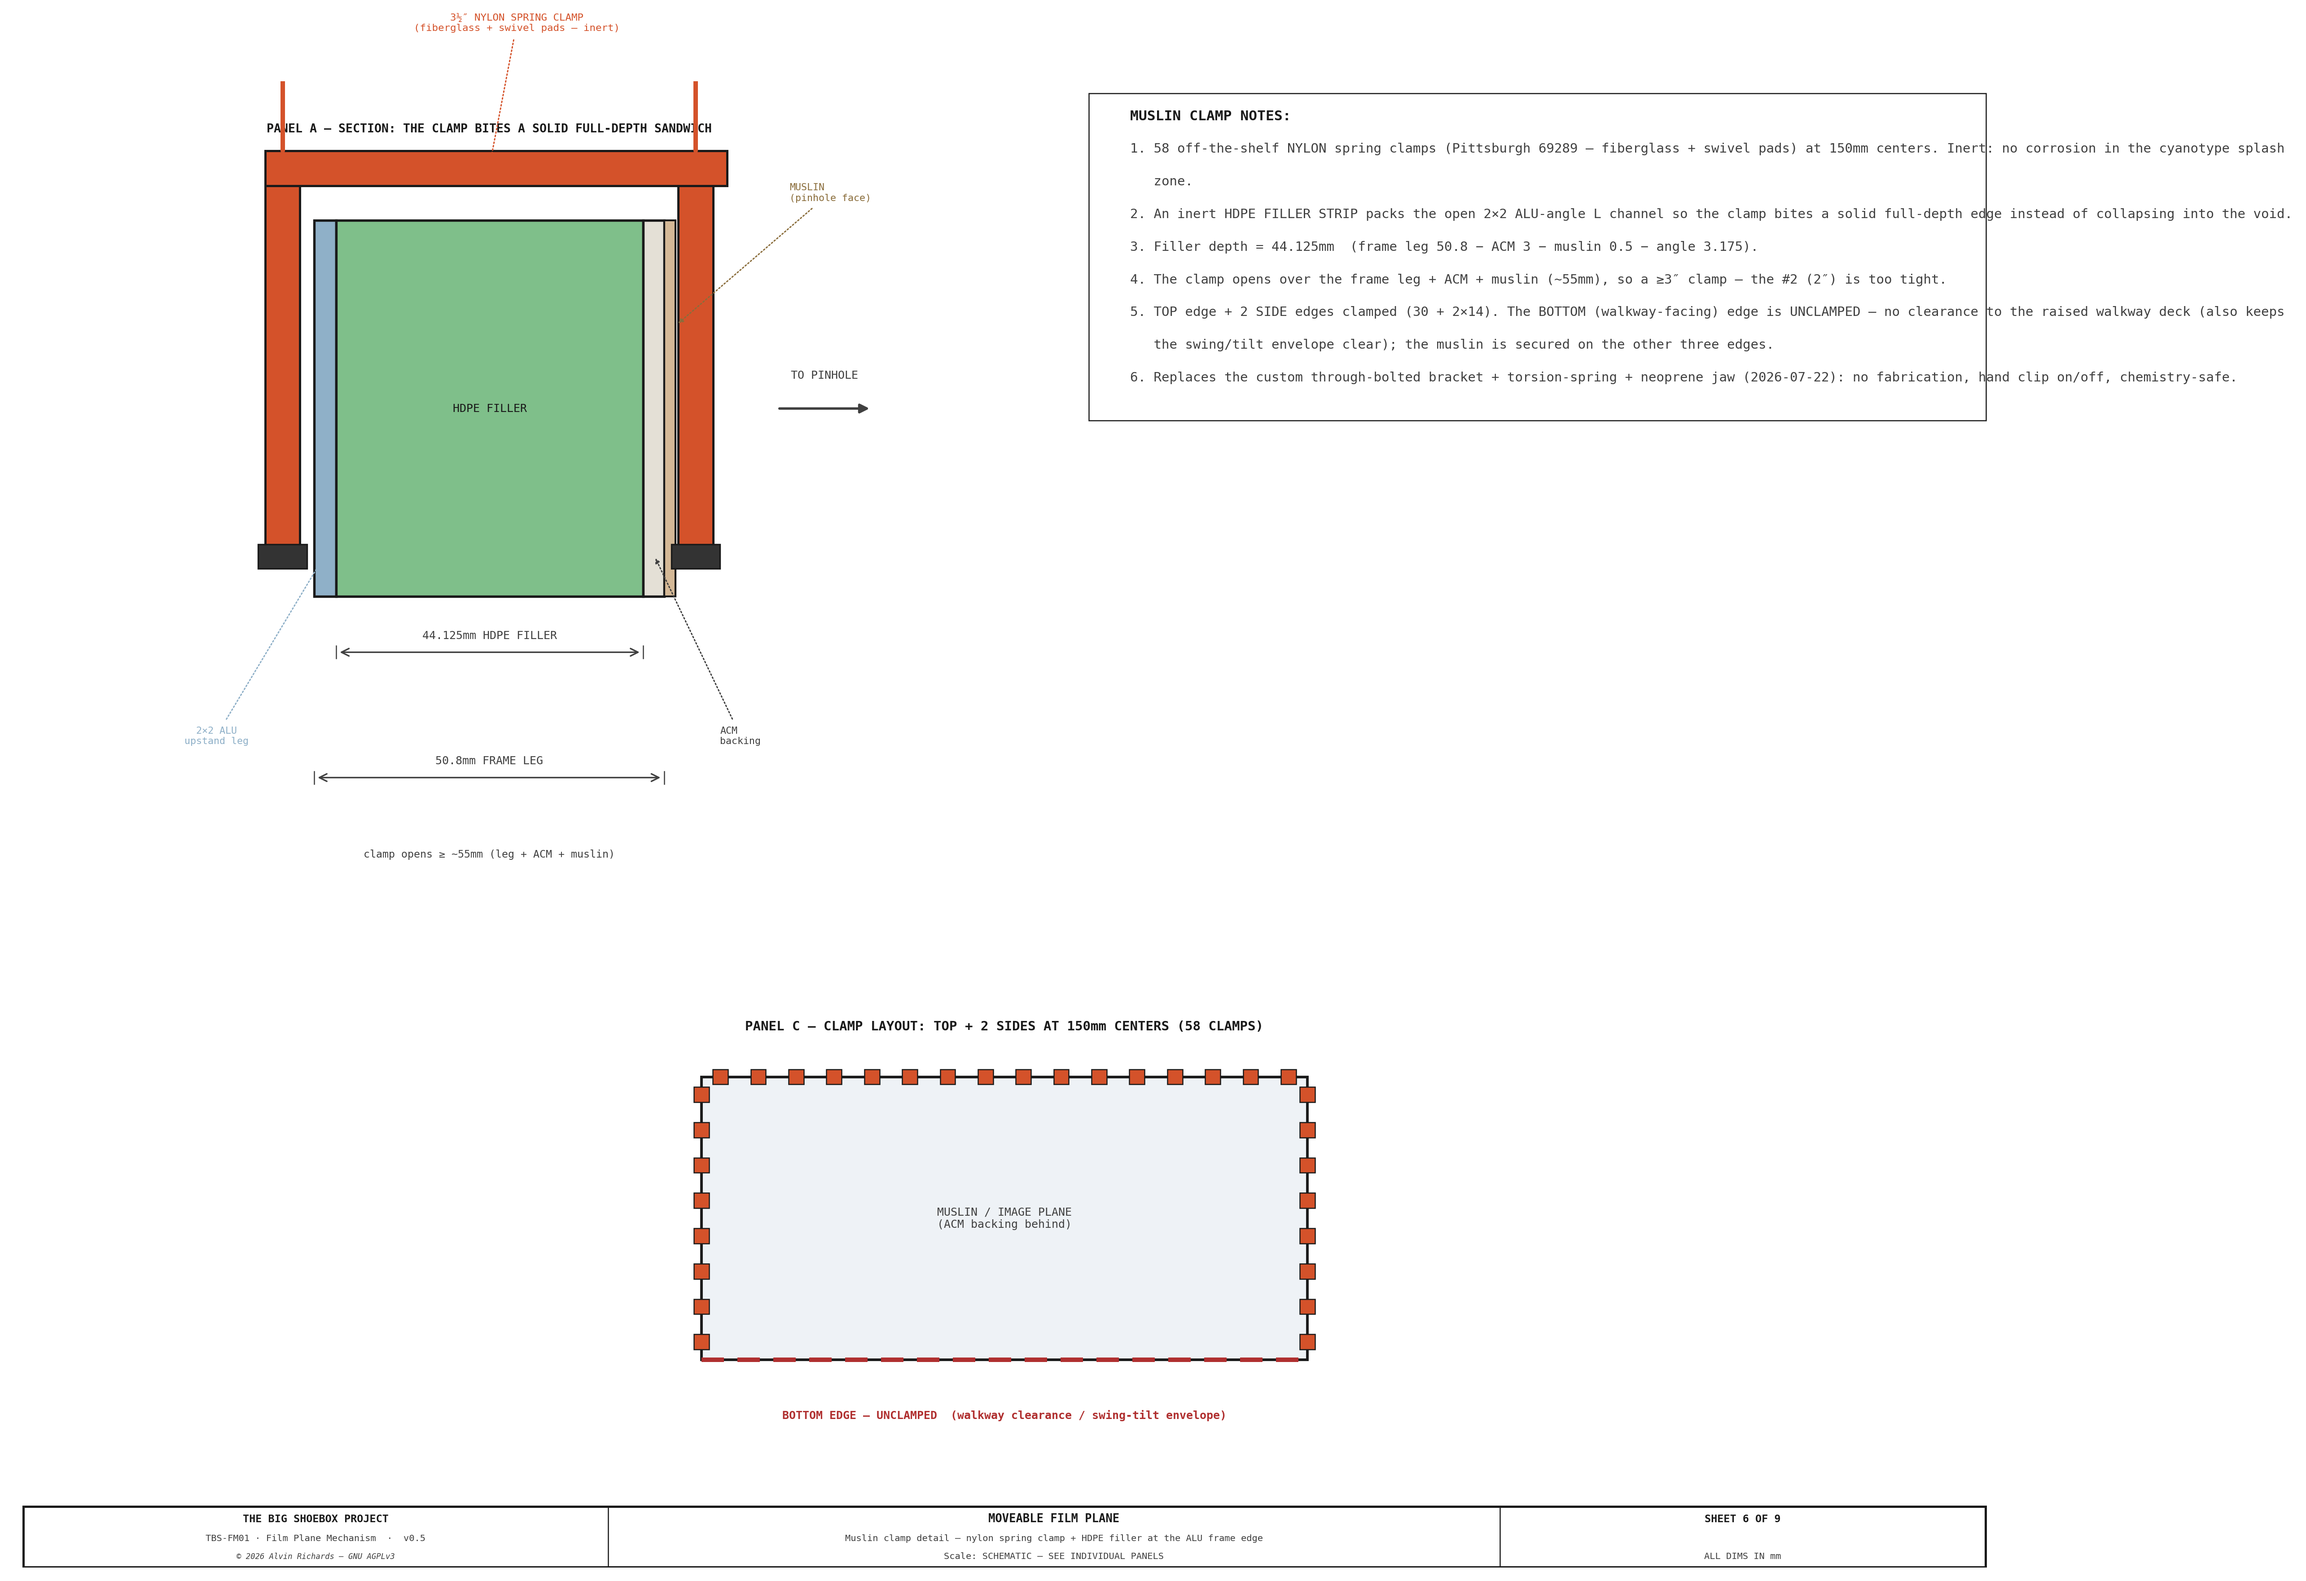
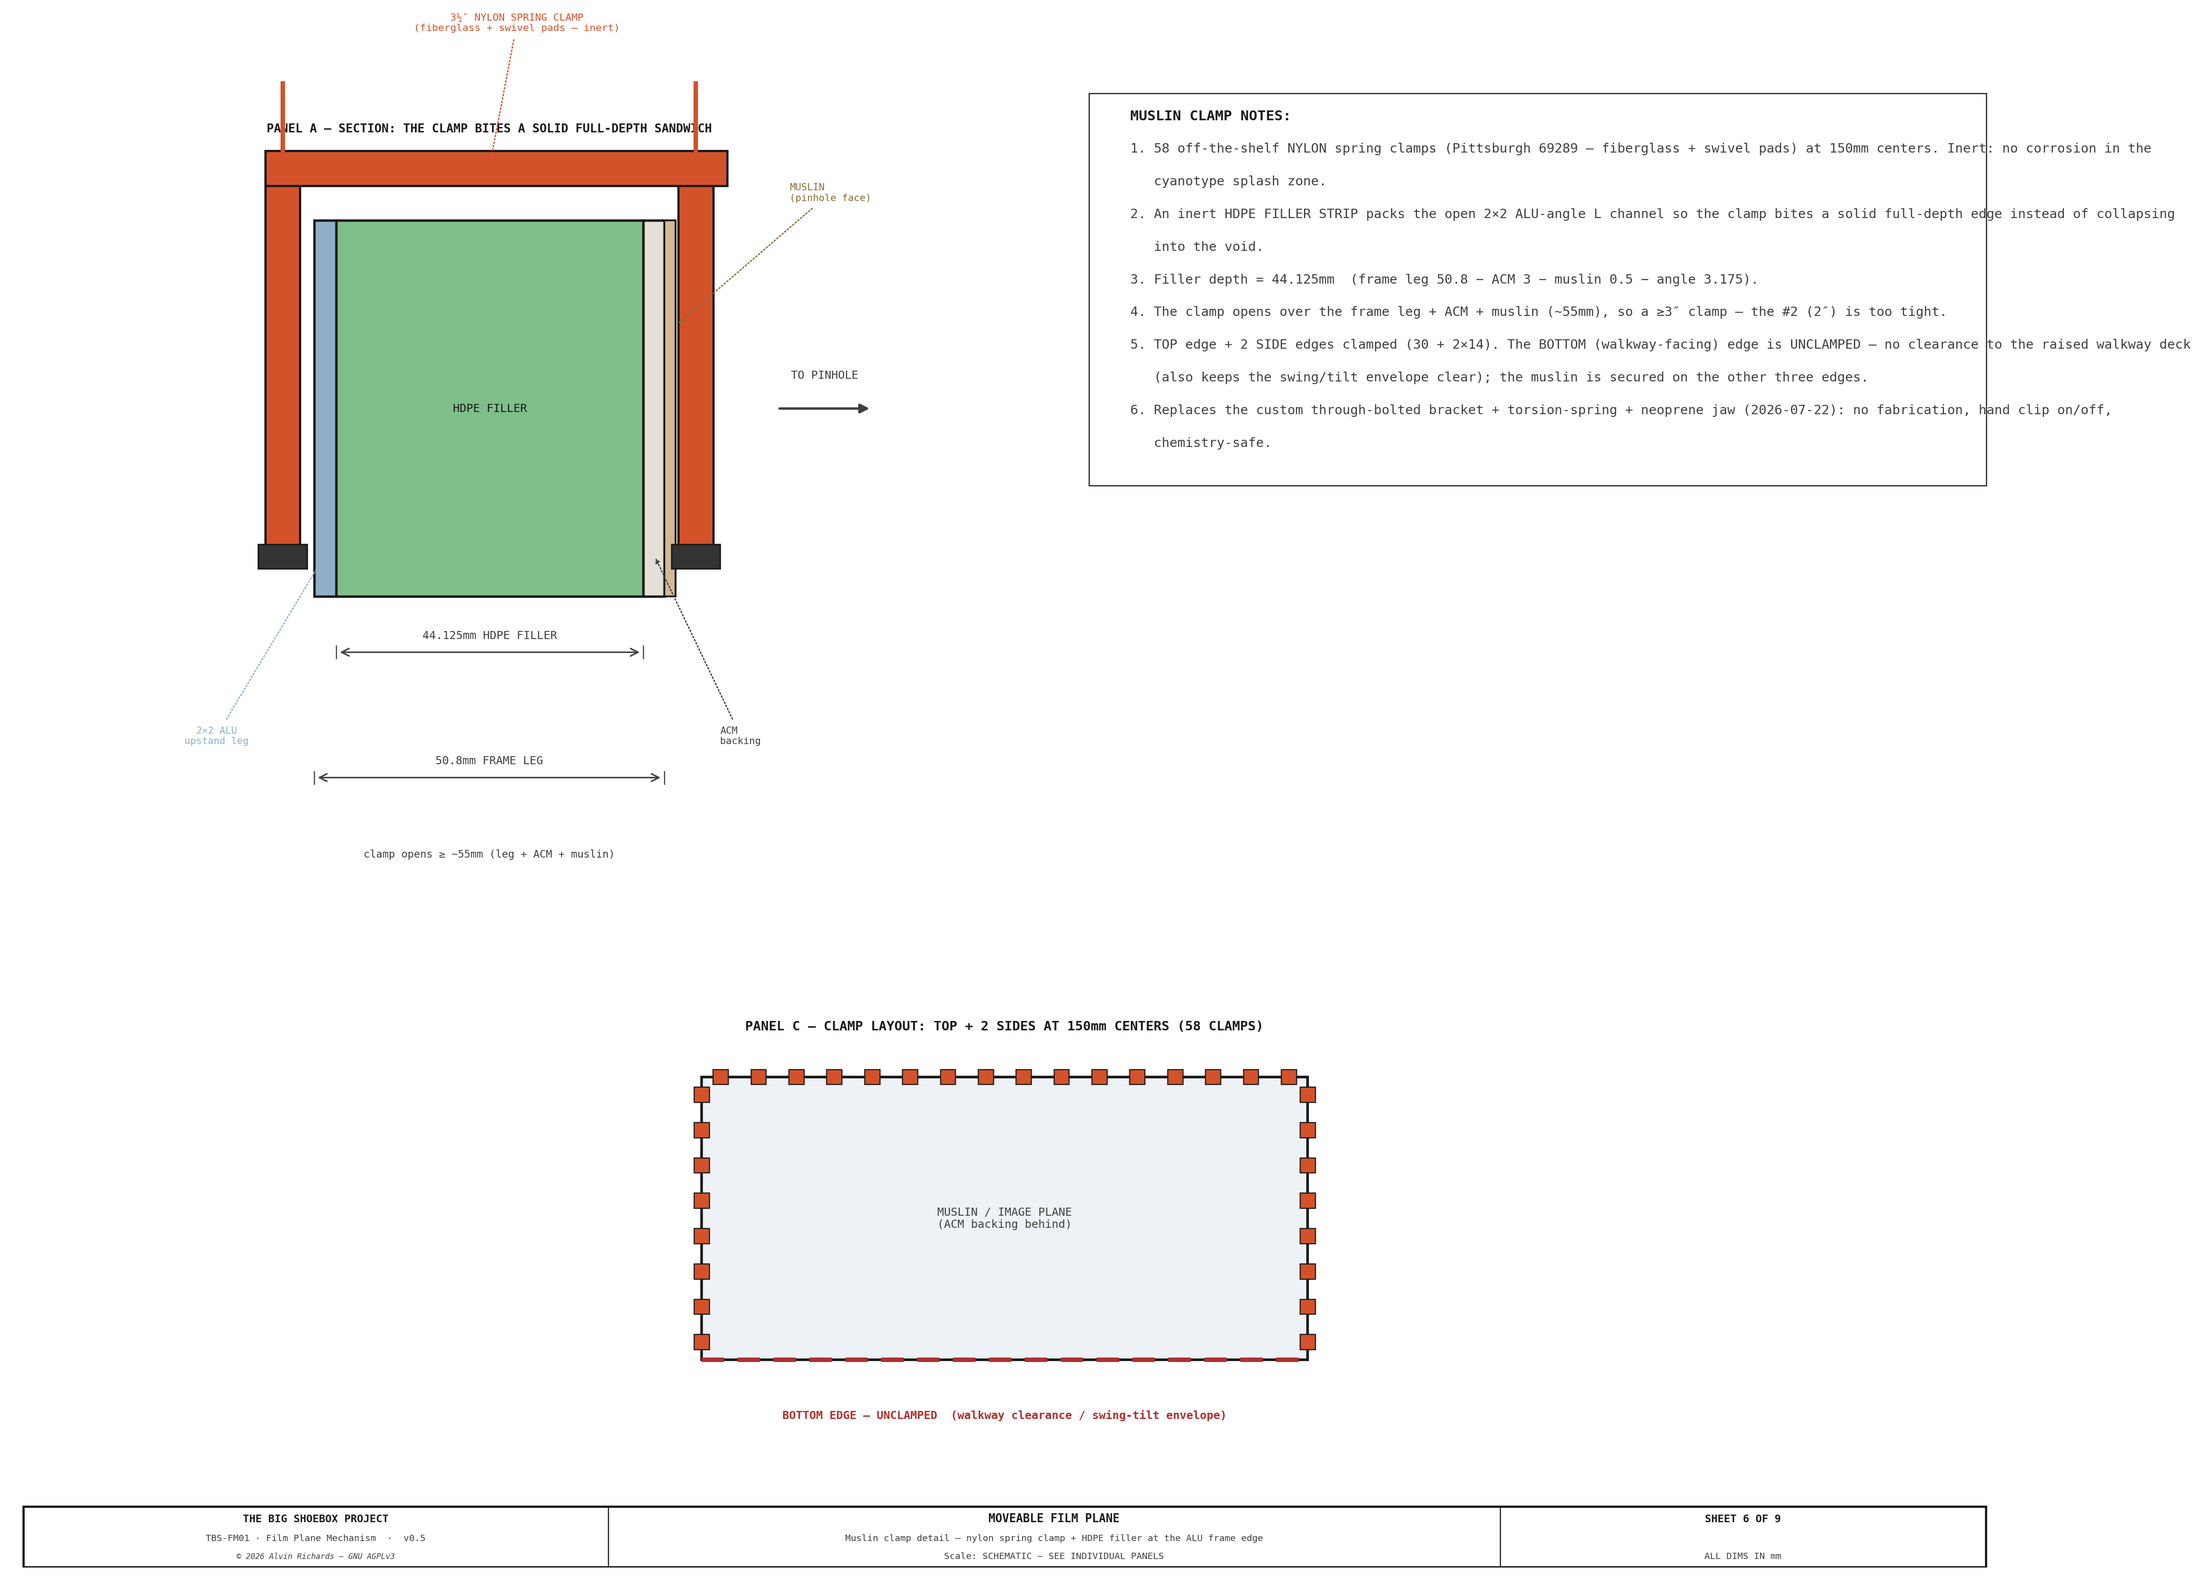
Diagram polish (round 2): fit note boxes to content
- film-plane sheet 9: note block reduced to ~50% page width + line-wrap
- film-plane sheet 6: wrap note lines to fit inside the box
- water-system sheet 3: notes box +5% wider

diff --git a/src/generators/generate_film_plane_mechanism.py b/src/generators/generate_film_plane_mechanism.py
@@ -1463,7 +1463,7 @@ def sheet6():
         "6. Replaces the custom through-bolted bracket + torsion-spring + neoprene jaw (2026-07-22): no fabrication, hand clip on/off, chemistry-safe.",
     ]
     draw_notes(ax_b, notes, 2, 96, spacing=4.6, fs=7, title_fs=7.5,
-               color=DIM, title_color=ANNO, font=FONT, width=90, wrap=148)
+               color=DIM, title_color=ANNO, font=FONT, width=90, wrap=135)
 
     # ── PANEL C: edge layout — 3 clamped edges (bottom omitted) ──
     ax_c = fig.add_axes([0.05, 0.06, 0.90, 0.30])
@@ -1963,7 +1963,7 @@ def sheet9():
         "the X slide (~260mm) + the Z slide beneath it (~250mm, Sheet 8) take the in-plane arc travel.",
         "LOAD PATH, film → rail:  ACM board → 6061 angle frame → 304 SS corner plate → U-joint → "
         "X (swing) slide → Z (tilt) slide → carriage plate → 4-wheel acetal skate → 6061 Al U-channel rail.",
-    ], 1, 97, spacing=6.0, fs=7, title_fs=7.6, color=DIM, title_color=ANNO, font=FONT, width=140)
+    ], 1, 97, spacing=4.5, fs=7, title_fs=7.6, color=DIM, title_color=ANNO, font=FONT, width=46, wrap=110)
     # title block
     ax_tb = fig.add_axes([0.02, 0.0, 0.96, 0.055]); ax_tb.set_xlim(0, 1); ax_tb.set_ylim(0, 1); ax_tb.axis("off")
     title_block(ax_tb, "SHEET 9 OF 9",

diff --git a/src/generators/generate_water_system.py b/src/generators/generate_water_system.py
@@ -879,7 +879,7 @@ def draw_sheet3():
         f"5. Wall-cantilevered walkway — no legs or structure on tray floor near sump.",
     ]
     draw_notes(ax3, notes, (-410), (-890), spacing=(70), fs=7,
-               width=(3600), color=C_TEXT, title_color=C_TEXT,
+               width=(3780), color=C_TEXT, title_color=C_TEXT,
                font={"fontfamily": "monospace"})
 
     _save(fig3, "water-system-sheet3")
